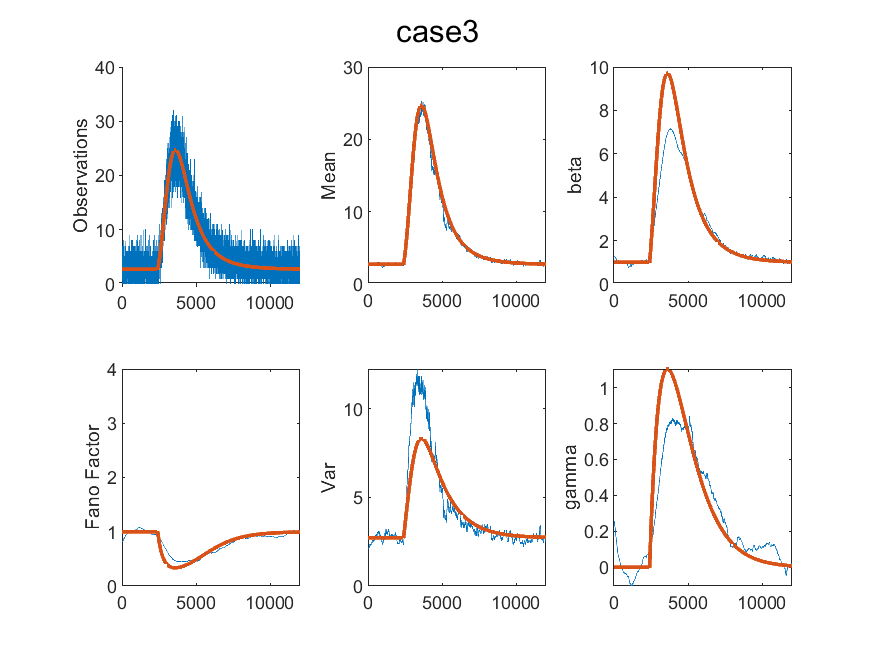
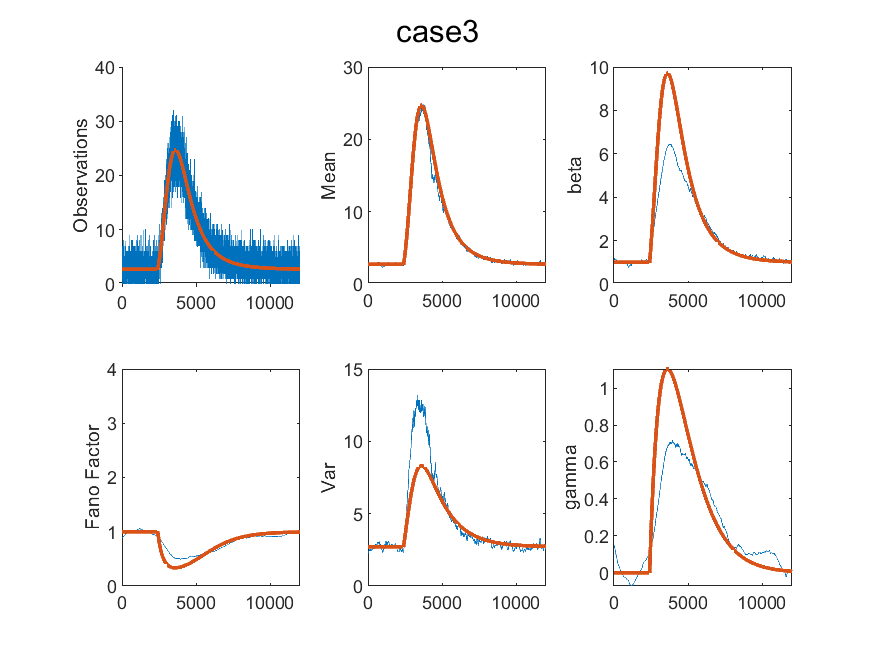
3 cases updates

diff --git a/demo/single/demo_newCases.m b/demo/single/demo_newCases.m
@@ -14,9 +14,9 @@ G_nu = ones(T/dt, 1);
 theta_true = zeros(T/dt,2);
 
 % % Case 1 -- Mean increase - poisson model (good)
-theta_true(:,1) = (t-0.2)/.1.*exp(-(t-0.2)/.1).*(t>.2)*6+1;
-theta_true(:,2) = 0;
-Q=diag([1e-2 1e-6]);
+% theta_true(:,1) = (t-0.2)/.1.*exp(-(t-0.2)/.1).*(t>.2)*6+1;
+% theta_true(:,2) = 0;
+% Q=diag([1e-2 1e-6]);
 
 % % Case 2 -- Var decrease - constant(ish) mean (not bad)
 % target_mean = 10; 
@@ -27,18 +27,18 @@ Q=diag([1e-2 1e-6]);
 % Q=diag([1e-3 1e-3]);
 
 % Case 3 -- Mean increase + Var decrease
-% % seems mean increase --> var increase also, confused
-% theta_true(:,2) = 3*(t-0.2)/.1.*exp(-(t-0.2)/.1).*(t>.2);
-% nu_true = exp(G_nu.*theta_true(:, 2));
-% % theta_true(:,1) = log(matchMean(exp((t-0.2)/.1.*exp(-(t-0.2)/.1).*(t>.2)*6+1),nu_true));
-% % to run fast... use approximation again
-% target_mean = exp((t-0.2)/.1.*exp(-(t-0.2)/.1).*(t>.2)*6+1);
-% % hold on
-% % plot(nu_true.*log(target_mean' + (nu_true - 1)./ (2*nu_true)))
-% % plot(theta_true(:,1))
-% % hold off
-% theta_true(:,1) = nu_true.*log(target_mean' + (nu_true - 1)./ (2*nu_true));
-% Q=diag([1e-3 1e-3]);
+% seems mean increase --> var increase also, confused
+theta_true(:,2) = 3*(t-0.2)/.1.*exp(-(t-0.2)/.1).*(t>.2);
+nu_true = exp(G_nu.*theta_true(:, 2));
+% theta_true(:,1) = log(matchMean(exp((t-0.2)/.1.*exp(-(t-0.2)/.1).*(t>.2)*6+1),nu_true));
+% to run fast... use approximation again
+target_mean = exp((t-0.2)/.1.*exp(-(t-0.2)/.1).*(t>.2)*6+1);
+% hold on
+% plot(nu_true.*log(target_mean' + (nu_true - 1)./ (2*nu_true)))
+% plot(theta_true(:,1))
+% hold off
+theta_true(:,1) = nu_true.*log(target_mean' + (nu_true - 1)./ (2*nu_true));
+Q=diag([1e-3 1e-3]);
 
 lam_true = exp(X_lam.*theta_true(:, 1));
 nu_true = exp(G_nu.*theta_true(:, 2));
@@ -68,8 +68,6 @@ plot(theo_mean, 'LineWidth', 2)
 hold off
 box off; set(gca,'TickDir','out')
 ylabel('Observations')
-sgtitle('case1') 
-
 
 
 % fit
@@ -97,15 +95,15 @@ sgtitle('case1')
 % plot(tf_path')
 % theta0 = mean(tf_path, 2);
 
-% way 2: run smoothing twice for the first 100 spikes?
+% way 2: run smoothing twice?
 max_init = 100;
 spk_tmp = spk_vec(1:max_init);
 theta0_tmp = [log(mean(spk_tmp)); 0];
 W0_tmp = diag([1 1]);
 F = diag([1 1]);
 [theta_fit_tmp,W_fit_tmp] =...
-    ppasmoo_compoisson_v2(theta0_tmp, spk_tmp,X_lam,G_nu,...
-    W0_tmp,F,diag([1e-3 1e-3]));
+    ppasmoo_compoisson_v2(theta0_tmp, spk_vec,X_lam,G_nu,...
+    W0_tmp,F,diag([1e-4 1e-4]));
 theta0 = theta_fit_tmp(:, 1);
 W0 = W_fit_tmp(:, :, 1);
 
@@ -199,7 +197,7 @@ plot(theo_mean, 'LineWidth', 2)
 hold off
 box off; set(gca,'TickDir','out')
 ylabel('Observations')
-sgtitle('case1') 
+sgtitle('case3') 
 
 subplot(2,3,2)
 plot(est_mean)
@@ -238,5 +236,5 @@ plot((theta_true(:,2)), 'LineWidth', 2)
 hold off
 ylabel('gamma')
 
-% save('C:\Users\gaw19004\Desktop\COM_POI_data\sim_case1.mat')
-% saveas(figure(3), 'case1.png')
+% save('C:\Users\gaw19004\Desktop\COM_POI_data\sim_case3.mat')
+% saveas(figure(3), 'case3.png')
